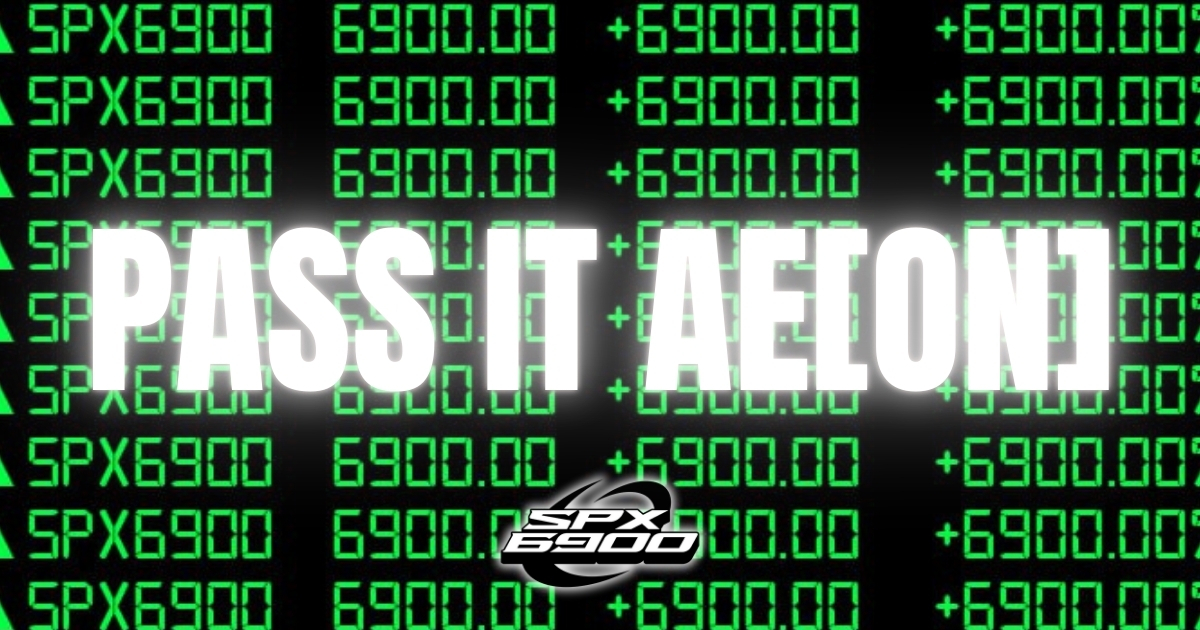
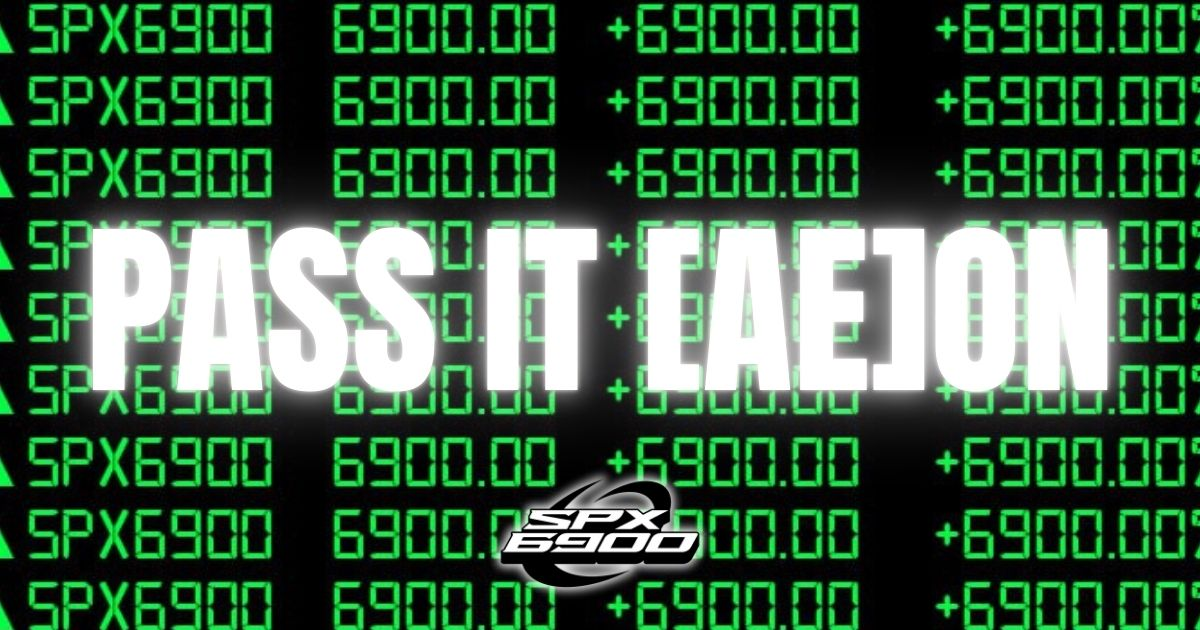
+ Metadata updates

diff --git a/app/layout.tsx b/app/layout.tsx
@@ -14,16 +14,16 @@ export const metadata: Metadata = {
   
   // Metadatos para Facebook / Discord / WhatsApp
   openGraph: {
-    title: 'INVITACIÓN CONFIDENCIAL: Pass It Ae[on]',
-    description: 'Alguien te ha pasado la cadena. Reclama tus tokens SPX antes de que expiren.',
+    title: 'PASS IT [AE]ON',
+    description: 'Reclama tus tokens SPX antes de que expiren.',
     url: 'https://passitaeon.com',
-    siteName: 'Pass It Ae[on]',
+    siteName: 'Pass It [Ae]on',
     images: [
       {
         url: 'https://passitaeon.com/og-image.jpg',
         width: 1200,
         height: 630,
-        alt: 'Pass It Aeon - Enter the Cognisphere',
+        alt: 'PASS IT [AE]ON - Enter the Cognisphere',
       },
     ],
     locale: 'es_MX',
@@ -33,7 +33,7 @@ export const metadata: Metadata = {
   // Metadatos para Twitter / X
   twitter: {
     card: 'summary_large_image',
-    title: 'Pass It Ae[on] | Claim SPX6900',
+    title: 'PASS IT [AE]ON | Claim SPX6900',
     description: 'No rompas la cadena. Únete ahora.',
     images: ['https://passitaeon.com/og-image.jpg'], // La misma imagen
   },
